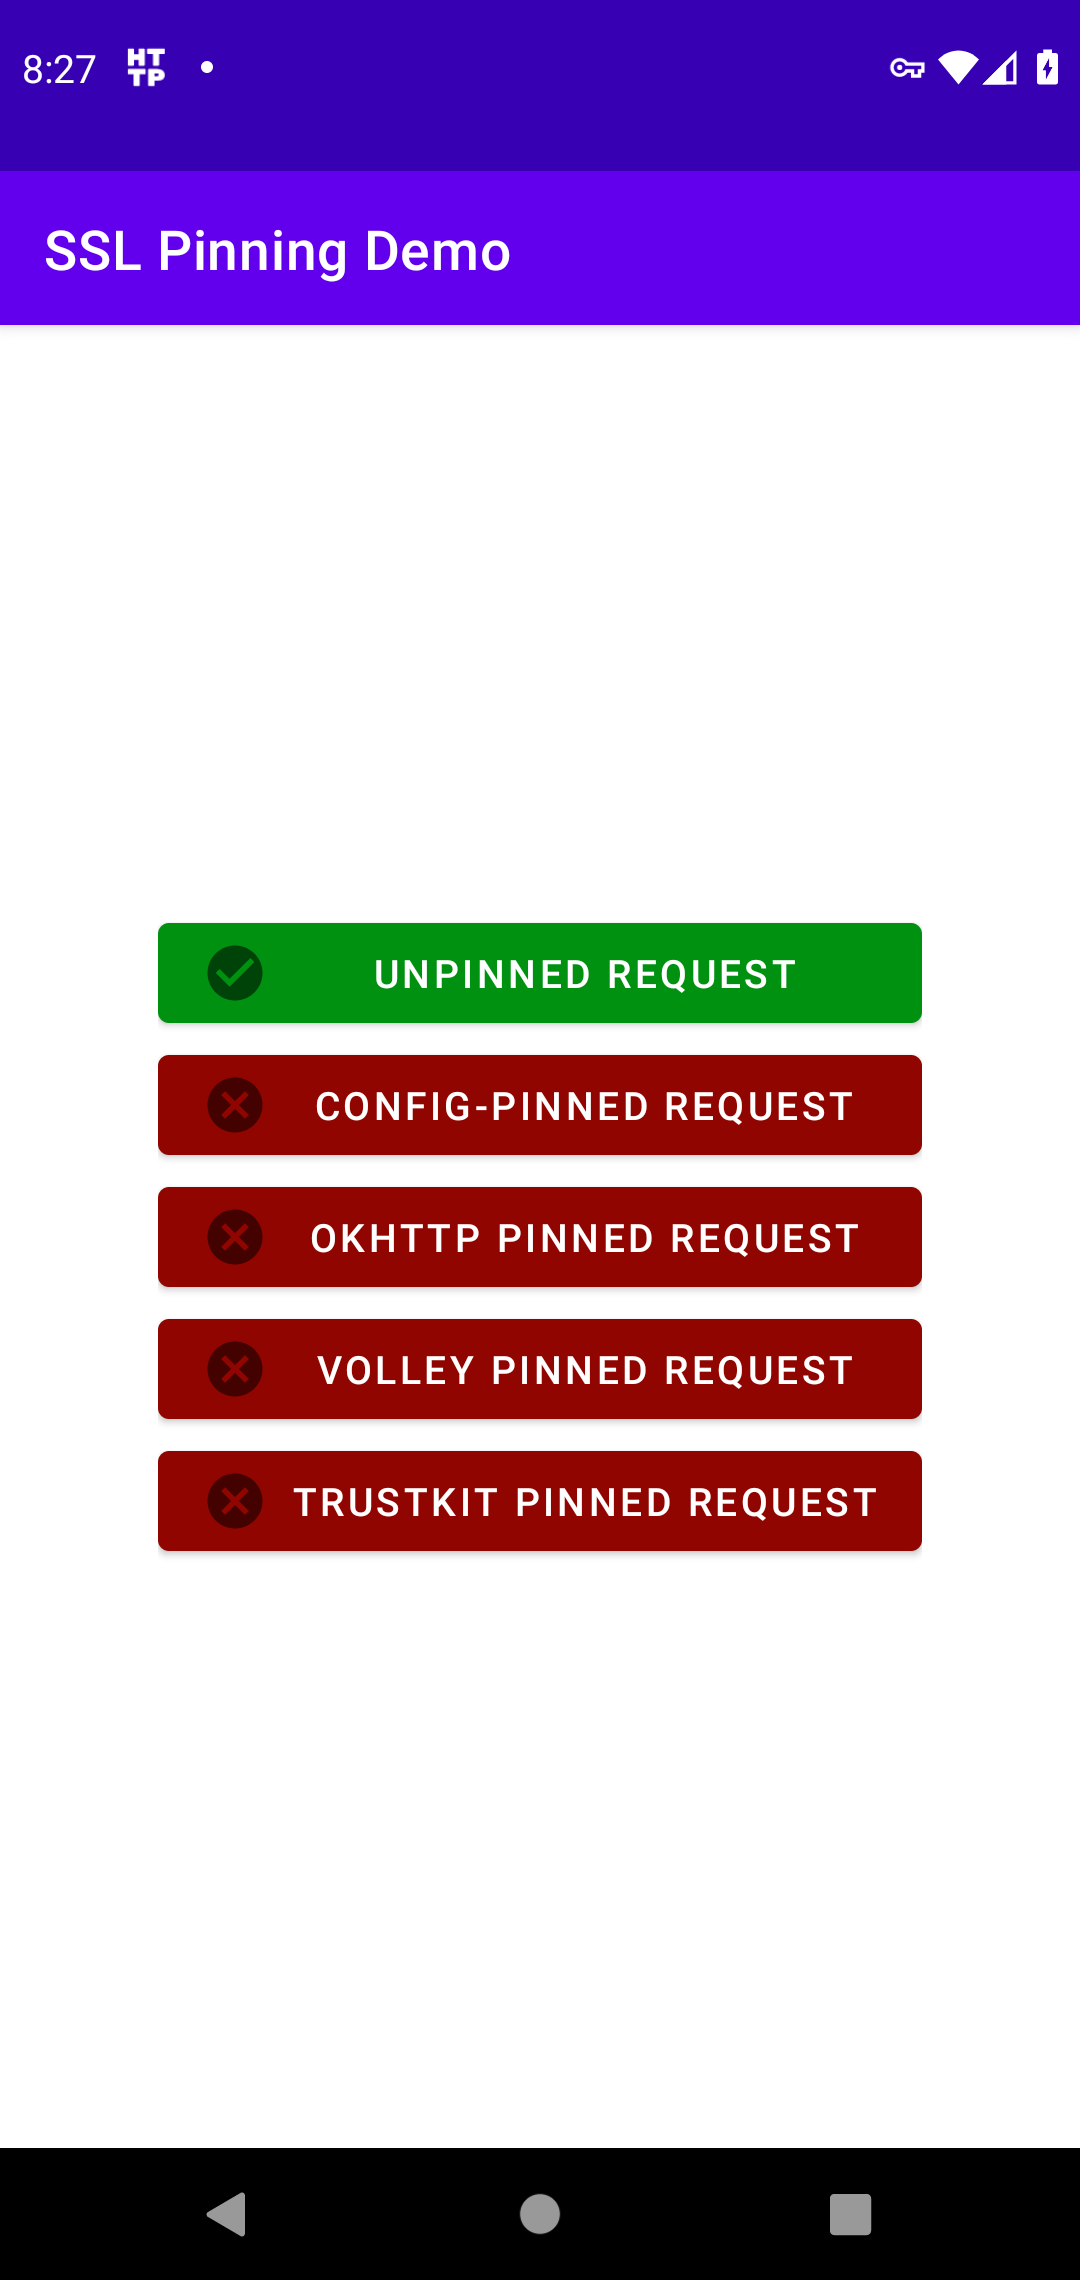
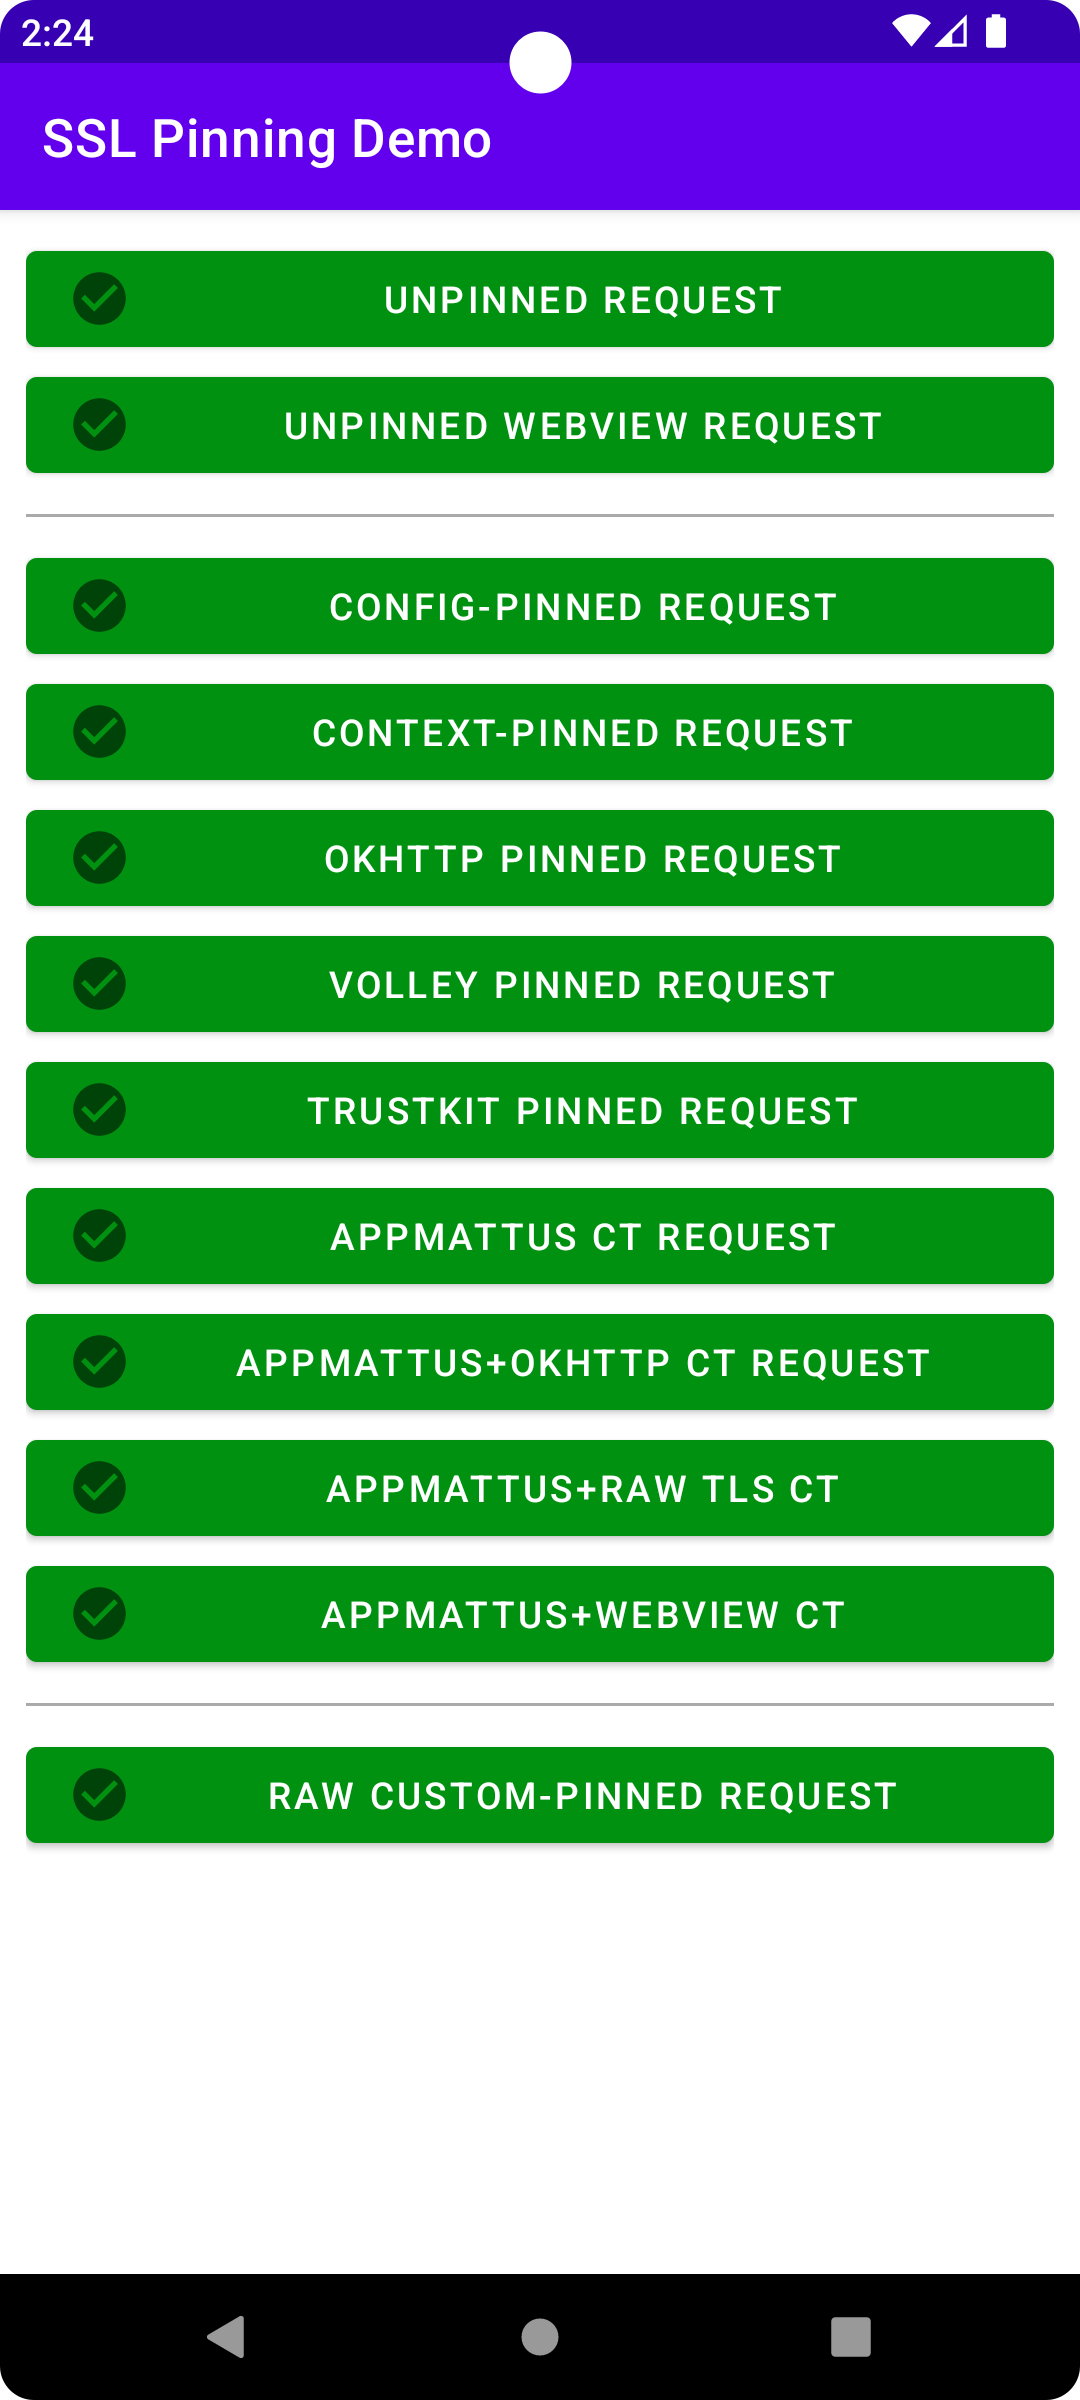
Update the readme & screenshot

diff --git a/README.md b/README.md
@@ -1,6 +1,6 @@
 # android-ssl-pinning-demo
 
-> _Part of [HTTP Toolkit](https://httptoolkit.tech): powerful tools for building, testing & debugging HTTP(S)_
+> _Part of [HTTP Toolkit](https://httptoolkit.com/): powerful tools for building, testing & debugging HTTP(S)_
 
 A tiny demo app using SSL pinning to block HTTPS MitM interception.
 
@@ -8,8 +8,14 @@ A tiny demo app using SSL pinning to block HTTPS MitM interception.
 
 You can either clone this repo and build it yourself in Android Studio, or download the APK from the [releases page](https://github.com/httptoolkit/android-ssl-pinning-demo/releases) and install it with `adb install android-ssl-pinning-demo.apk`.
 
-Pressing each button will send an HTTP request with the corresponding configuration. The buttons are purple initially or while a request is in flight, and then turn green or red (with corresponding icons, and an error message popped up for failures) when the request succeeds/fails.
+Pressing each button will send an HTTP request with the corresponding configuration. The buttons are purple initially or while a request is in flight, and then turn green or red (with corresponding icons and an error message popped up for failures) when the request succeeds/fails.
 
-On a normal unintercepted device, every button should always immediately go green. On a device whose HTTPS is being intercepted (e.g. by [HTTP Toolkit](https://httptoolkit.tech/android)) all except the first button will go red, unless you've used Frida or similar to disable certificate pinning.
+On a normal unintercepted device, every button should always immediately pass.
+
+On a device whose HTTPS is being intercepted (e.g. with [HTTP Toolkit](https://httptoolkit.com/android/)), the unpinned buttons will pass, and then all other buttons the first 'unpinned' buttons will fail.
+
+On an intercepted device using a standard Frida script (or similar) to automatically disable certificate pinning (e.g. https://github.com/httptoolkit/frida-interception-and-unpinning/) all buttons should pass _except_ the final "custom-pinned" button.
+
+That final button uses low-level manual checks against the TLS connection, with no external libraries or config involved. It is still possible to make this pass too, but you'll need to do a little reverse engineering to disable that code specifically. See [this Android reverse engineering blog post](https://httptoolkit.com/blog/android-reverse-engineering/) for more details.
 
 <img width=200 src="https://raw.githubusercontent.com/httptoolkit/android-ssl-pinning-demo/main/screenshot.png" alt="A screenshot of the app in action" />
